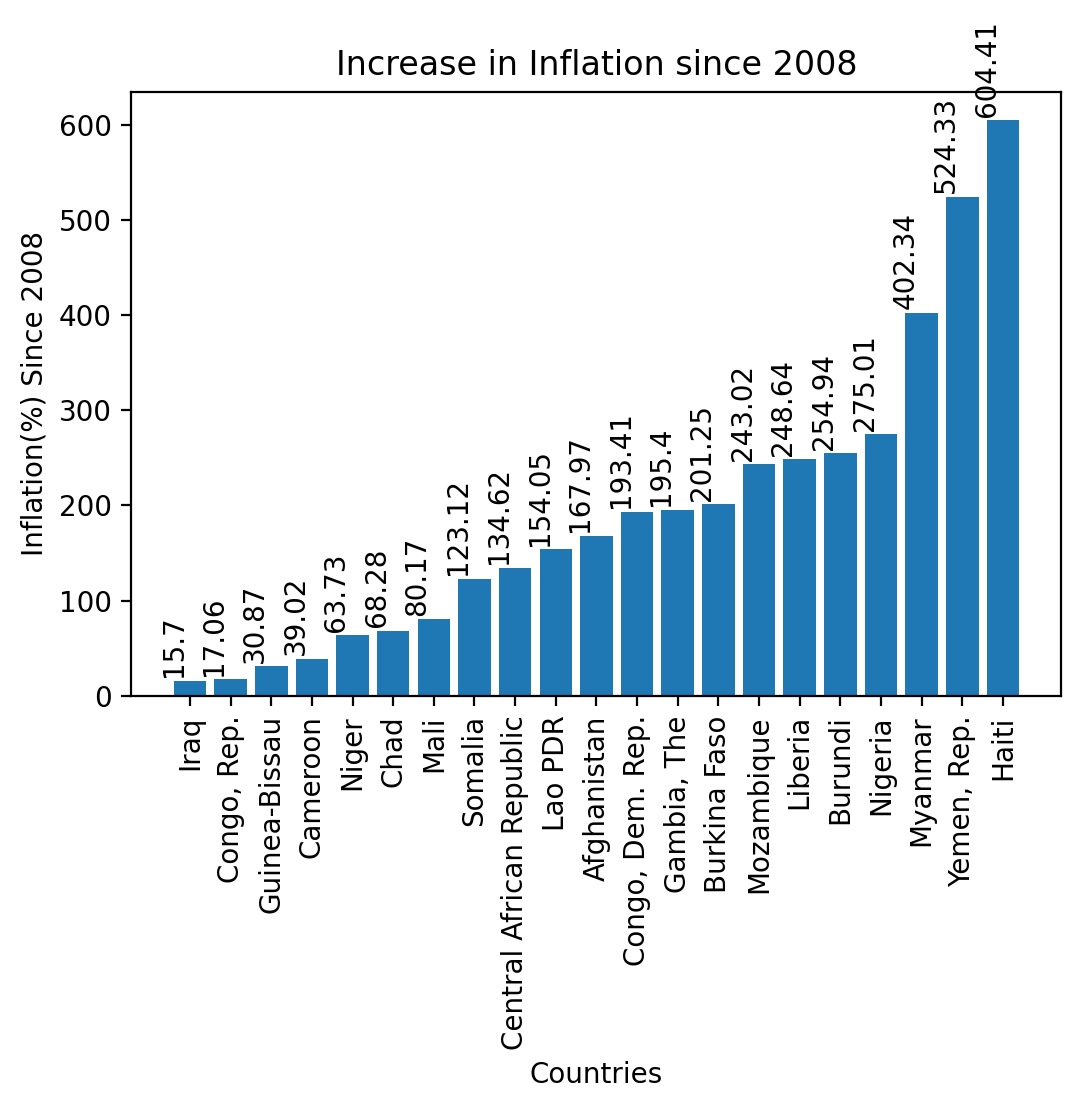
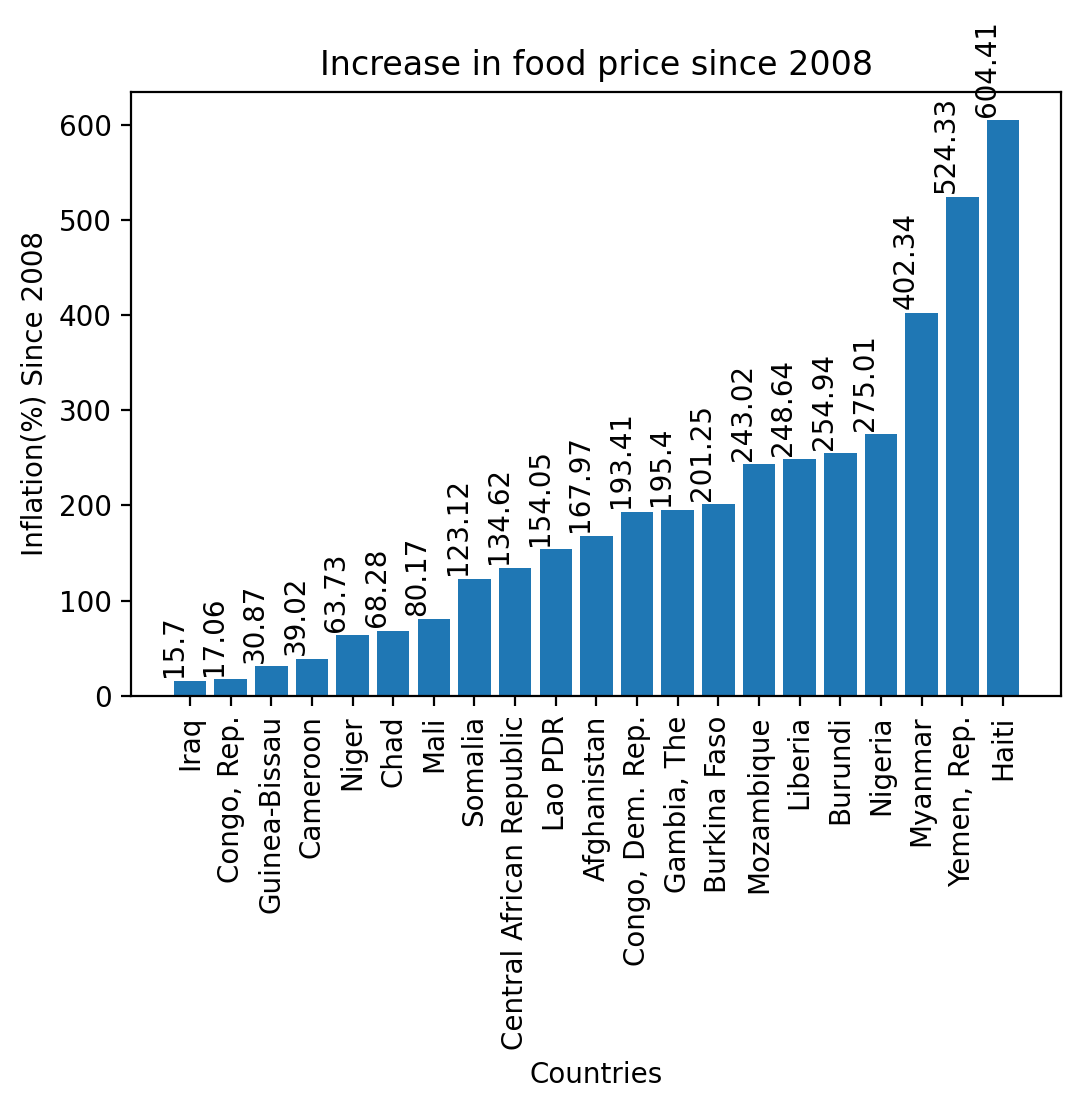
Added comments

Changed region(s): [[0.3053, 0.0307, 0.8242, 0.092]]

diff --git a/ads_assignment1.py b/ads_assignment1.py
@@ -1,3 +1,4 @@
+# Importing libraries
 import pandas as pd
 import matplotlib.pyplot as plt
 
@@ -97,7 +98,7 @@ def generate_bar_chart_inflation_sicnce_start(dataset):
             temp_df['total_food_price_increase_since_start_date'])
 
     # Labelling
-    plt.title('Increase in Inflation since 2008')
+    plt.title('Increase in food price since 2008')
     plt.xlabel('Countries')
     plt.ylabel('Inflation(%) Since 2008')
     plt.xticks(rotation=90)
@@ -116,6 +117,7 @@ def generate_bar_chart_inflation_sicnce_start(dataset):
              temp_df['total_food_price_increase_since_start_date'])
 
     # labelling
+    plt.title('Line graph for increase in food price since 2008')
     plt.xlabel('Countries')
     plt.ylabel('Inflation(%) Since 2008')
     plt.xticks(rotation=90)
@@ -139,12 +141,13 @@ def generate_bar_chart_inflation_sicnce_start(dataset):
                    temp2['total_food_price_increase_since_start_date'])
 
     # Labelling
-    plt.title("Increase in Inflation since 2008")
+    plt.title("Increase in food price since 2008")
     plt.xlabel('Countries')
     plt.ylabel('Inflation(%) Since 2008')
     plt.xticks(rotation=90)
 
     # access the bar attributes to place the text in the appropriate location
+    # https://stackoverflow.com/a/53072924
     for bar in bars:
         yval = bar.get_height()
         plt.text(
